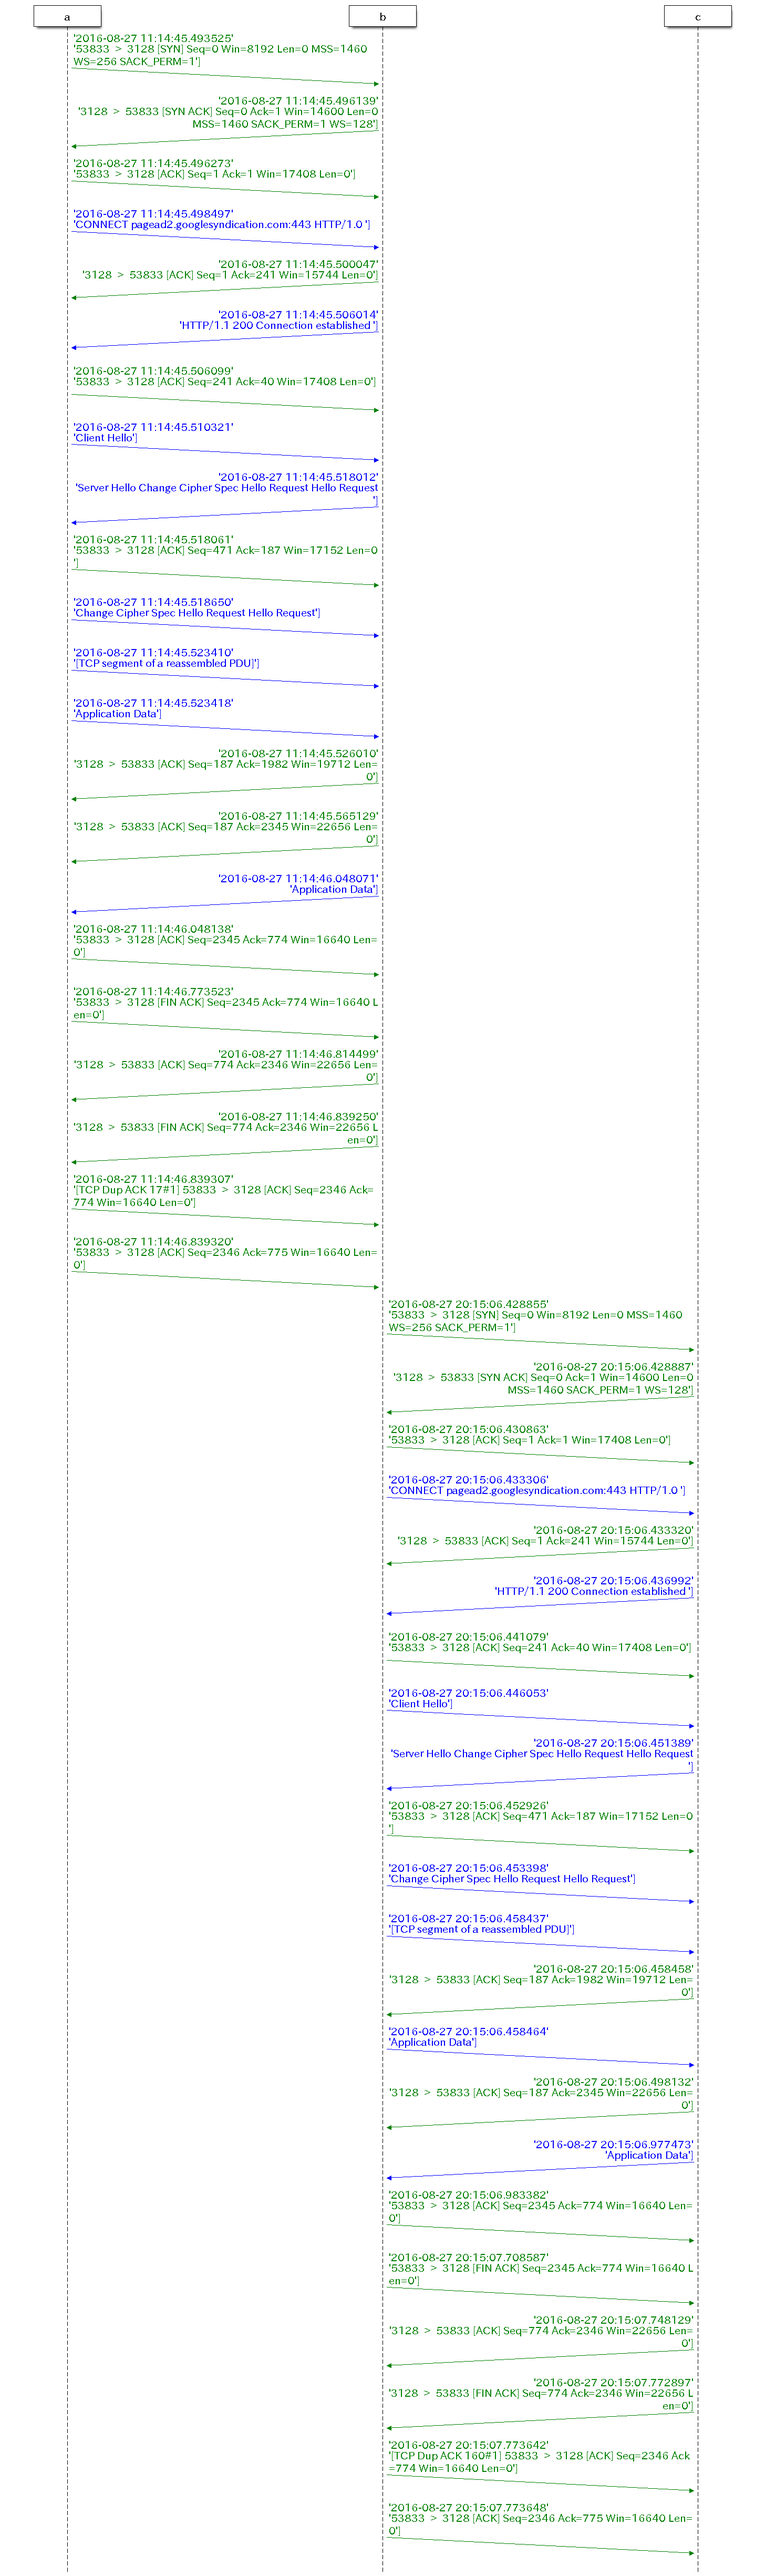
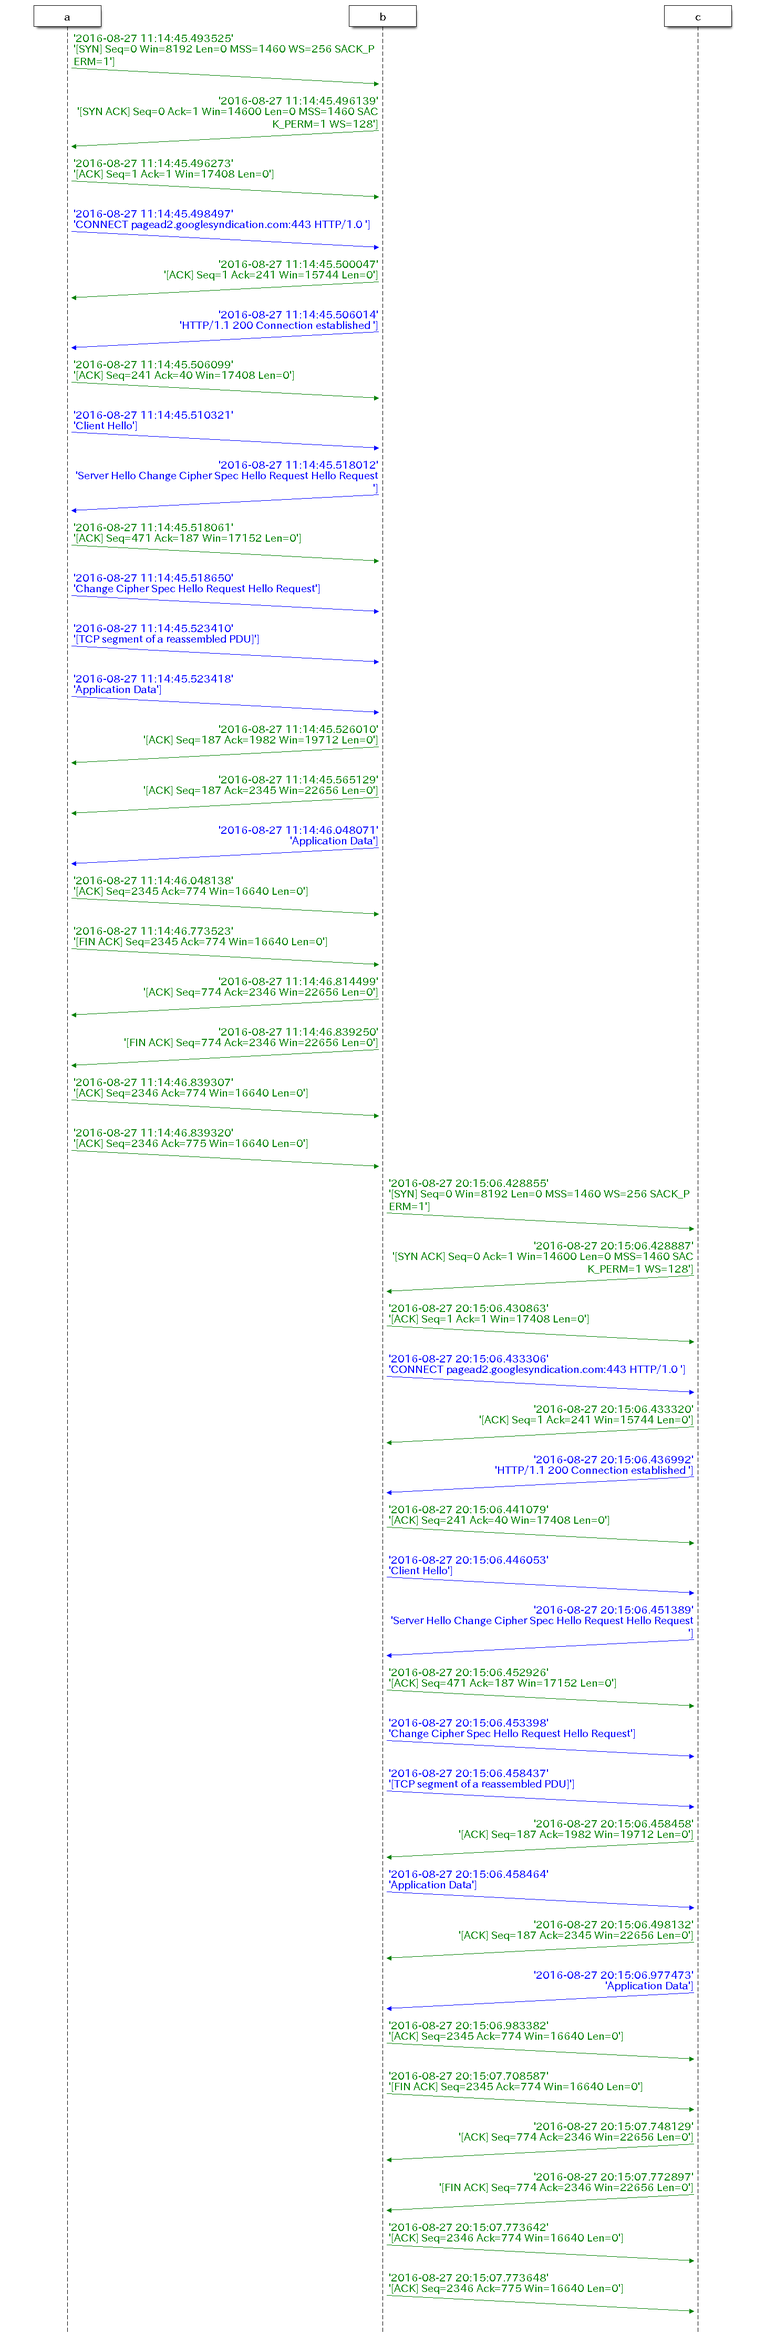
Added processing for switching of the output information of the packets

diff --git a/packetseq/packetseq.py b/packetseq/packetseq.py
@@ -1,4 +1,5 @@
 # -*- coding: utf-8 -*-
+import argparse
 import os
 import subprocess
 import sys
@@ -15,6 +16,7 @@ class PacketSeq():
         self.seqdiag_list = list()
         self.color_dict = {"Default":"Blue", "URG":"Red", "ACK":"Green", 
             "PSH":"Red", "RST":"Red", "SYN":"Green", "FIN":"Green"}
+        self.seq_info = "default" 
 
     def set_direction(self):
         syn_pattern = re.compile('SYN')
@@ -64,6 +66,14 @@ class PacketSeq():
                     packet_info = ""
                     for info in range(6, len(packet)):
                         packet_info += packet[info]
+
+                    if self.seq_info == "summary":
+                        packet_info = re.sub('\'.*\[', '\'[', packet_info)
+                        packet_info = re.sub('\].*\'', ']\'', packet_info)
+                    elif self.seq_info == "info":
+                        packet_info = re.sub('\]$', '', packet_info)
+                    else:
+                        packet_info = re.sub('\'.*\[', '\'[', packet_info)
 
                     m = num_pattern.search(str(packet))
                     if not m:

diff --git a/setup.py b/setup.py
@@ -4,7 +4,7 @@ from setuptools import setup, find_packages
 
 setup(
     name = 'packetseq',
-    version  = '0.1.1',
+    version  = '0.1.2',
     description = 'Create packet sequence diagram from pcap format csv file',
     license = 'MIT license',
     author = 'Yusuke Watanabe',
